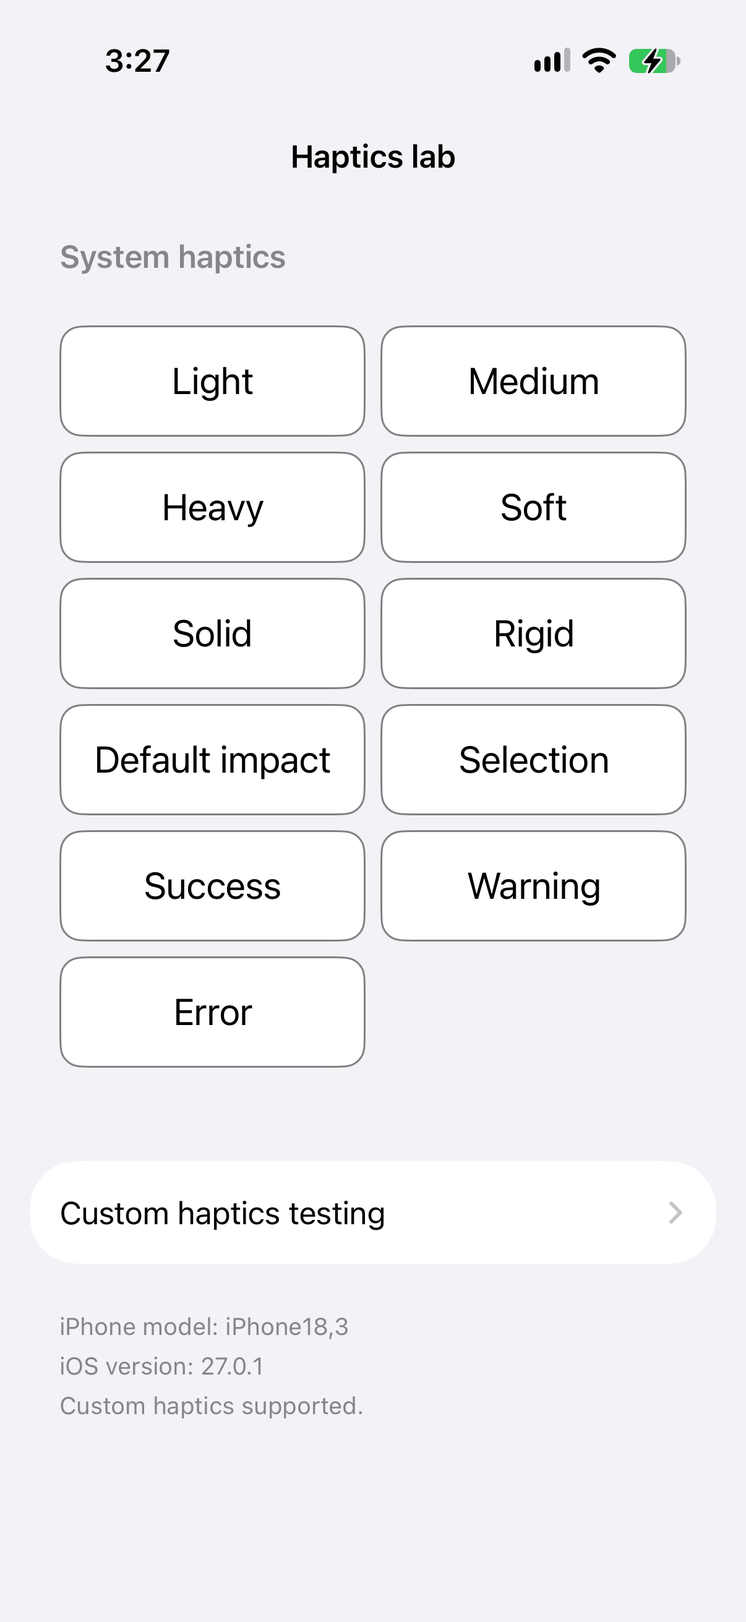
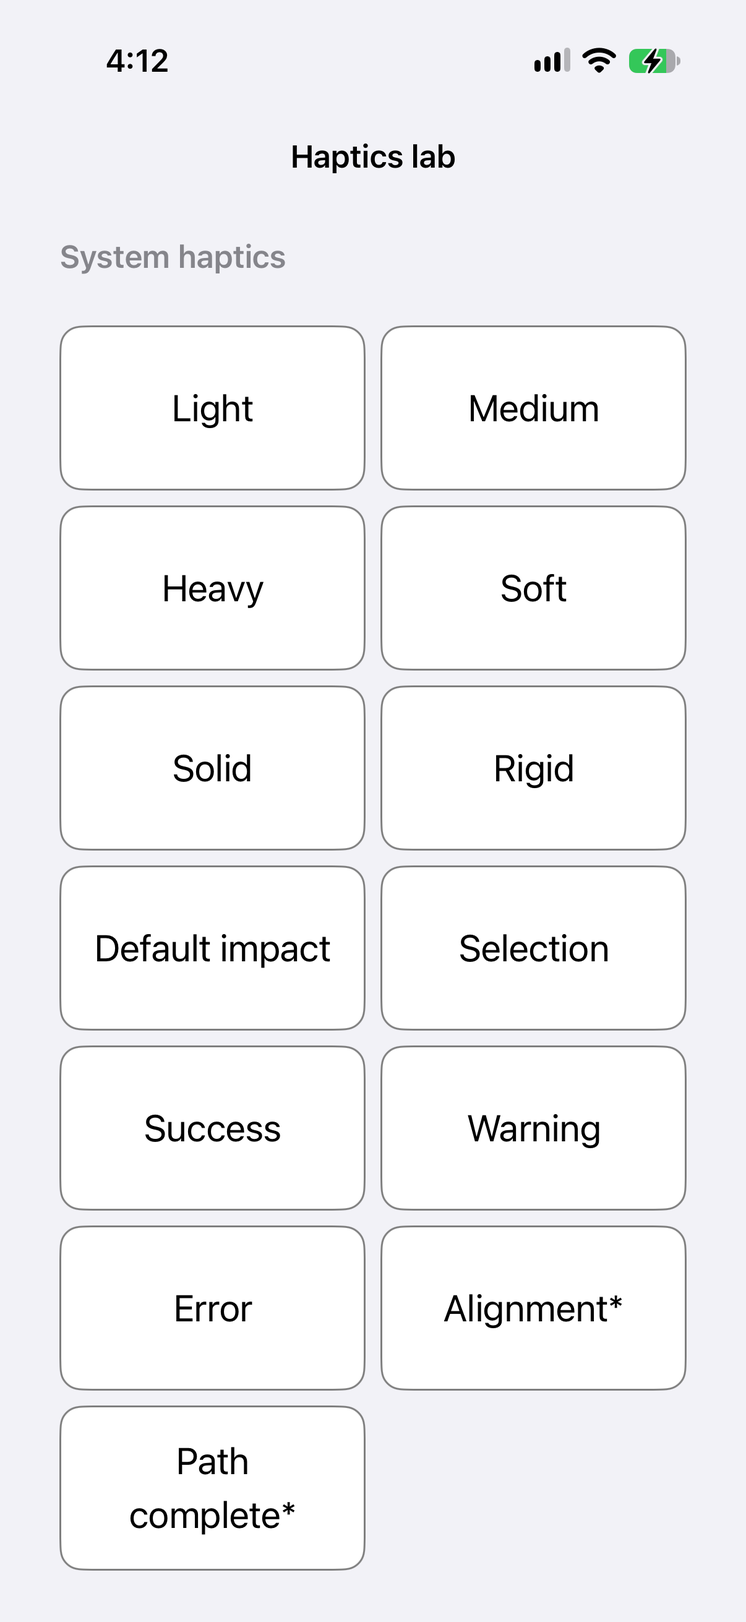
Simplify README guidance and refresh screenshots

diff --git a/README.md b/README.md
@@ -1,8 +1,8 @@
 # Haptics lab
 
-A native SwiftUI app for iOS developers and testers to compare Apple's system haptics, tune custom vibration patterns, and export those patterns as reusable Swift code.
+Explore Apple's system haptics, build your own vibration patterns, and take the Swift code into your app. Haptics lab is a small SwiftUI app for iOS developers and testers who want to try a pattern and understand how it works.
 
-Built with **Swift 6**, **SwiftUI**, and **Core Haptics**, with an **iOS/iPadOS 26.0** deployment target and **no third-party dependencies**. The project targets iPhone and iPad; feeling the patterns requires compatible physical hardware. A simulator cannot reproduce vibration.
+It runs on **iPhone and iPad with iOS/iPadOS 26.0 or later**, uses **Swift 6**, **SwiftUI**, and **Core Haptics**, and has **no third-party dependencies**. You can explore the interface in a simulator, but you'll need compatible physical hardware to feel the feedback.
 
 ## Screenshots
 
@@ -12,12 +12,12 @@ Built with **Swift 6**, **SwiftUI**, and **Core Haptics**, with an **iOS/iPadOS 
     <th>Custom — Pattern controls</th>
   </tr>
   <tr>
-    <td><img src="Docs/Screenshots/home.png" width="300" alt="Haptics lab home screen with eleven System haptics buttons, Custom haptics testing navigation, and device capability information"></td>
+    <td><img src="Docs/Screenshots/home.png" width="300" alt="Haptics lab home screen with thirteen System haptics buttons, including Alignment and Path complete marked with asterisks"></td>
     <td><img src="Docs/Screenshots/custom.png" width="300" alt="Custom screen with Play and Share, intensity and sharpness sliders, Continuous toggle, Repetitions, and the beginning of the Envelope controls"></td>
   </tr>
 </table>
 
-Screenshots supplied by the maintainer, showing light appearance on hardware identifier `iPhone18,3`, iOS 27.0.1. The Home screenshot predates the addition of `Alignment*`/`Path complete*` and the revised device footer. Custom is a scrolling form; more envelope controls and **Reset to defaults** appear below the captured area. Displayed values and available controls can differ by device and event type.
+These latest screenshots were supplied by the maintainer and show light appearance. On Home, scroll down to reach Custom, device information, and the Apple Pencil Pro footnote. On Custom, scroll down for the remaining envelope controls and **Reset to defaults**. Values and available controls can vary by device and event type.
 
 ## Contents
 
@@ -36,37 +36,48 @@ Screenshots supplied by the maintainer, showing light appearance on hardware ide
 
 ## Features
 
-| Feature | Current behavior |
+| What you can do | How it works |
 | --- | --- |
-| System feedback comparison | Thirteen predefined SwiftUI feedback choices on both iPhone and iPad, including two canvas requests marked with an Apple Pencil Pro requirement |
-| Device information | Hardware identifier, OS version, detected custom-haptic support, and the canvas hardware requirement on Home |
-| Transient and continuous events | Brief taps by default; turn on **Continuous** to reveal Duration |
-| Intensity and sharpness | Smooth sliders within ranges reported for the selected event type |
-| Exact numeric entry | Tap a slider's displayed value for a native editor with Save, Cancel, range guidance, and validation errors |
-| Repetition | One to eight events; Gap appears when Repetitions is greater than one |
-| Envelope shaping | Sustained, Attack time, and either Release time or Decay time, depending on the selected mode and device capabilities |
-| Contextual help | Information buttons beside Haptics, Repetition, and Envelope open explanations for testers |
-| Play and Stop | One toolbar button changes from Play to Stop during startup and playback |
-| Swift export | Share the current configuration as a standalone `CustomHaptic.swift` file through the native share sheet, including Save to Files where available |
-| Retained draft and Reset | Parameters survive navigation during the app session; **Reset to defaults** restores app timing defaults and reported transient-event parameter defaults |
-| Native interface | Light/dark appearance, semantic colors, Dynamic Type, native forms and navigation, and equal-height rounded rectangle system buttons |
-| Playback safeguards | Capability and value validation, cancellation, stale-callback protection, and automatic stopping when leaving Custom or when the app becomes inactive |
+| Compare system haptics | Try thirteen native feedback choices, including two canvas effects marked with an Apple Pencil Pro requirement |
+| Check your device | See its hardware identifier, OS version, and whether custom haptics are supported |
+| Try taps or longer vibrations | Leave **Continuous** off for brief taps, or turn it on to set a Duration |
+| Adjust the feel | Move the Intensity and Sharpness sliders smoothly within the device's reported ranges |
+| Enter an exact value | Tap a slider's number to type a value, with range guidance and validation |
+| Repeat a pattern | Choose one to eight repetitions and set the Gap between them |
+| Shape the envelope | Explore Sustained, Attack time, and Release time or Decay time where supported |
+| Learn as you test | Tap the information button beside Haptics, Repetition, or Envelope for help |
+| Play and stop | Use one toolbar button to start playback or stop it, including during startup |
+| Reuse your work | Share the current pattern as a standalone `CustomHaptic.swift` file |
+| Keep experimenting | Return to Custom without losing your draft during the app session, or use **Reset to defaults** |
+| Use familiar controls | Native forms, navigation, light/dark appearance, Dynamic Type, and equal-height rounded rectangle buttons |
+| Leave playback safely | Playback stops when you leave Custom or the app becomes inactive; validation and cancellation protect playback requests |
 
-No accounts, analytics, third-party services, or app-owned network requests are implemented. Sharing is initiated by the user through the system share sheet. Drafts are kept in memory, not saved across app launches.
+There's no account to create, and the app has no analytics or app-owned network requests. Sharing happens only when you choose it. Your draft stays in memory during the app session; it isn't saved between launches.
 
 ## Build and run
 
-1. Clone or fork this repository and open [HapticsLab.xcodeproj](HapticsLab.xcodeproj) in Xcode.
-2. Use an Xcode toolchain that supports the source's Swift 6 features, including `nonisolated` type declarations, and an iOS SDK with the iOS 26 SwiftUI APIs used here. The deployment target is not a claim that every older Xcode version can build the project.
-3. Select the **HapticsLab** scheme and an installed iOS simulator, then choose **Product → Run** to explore the UI.
-4. To feel the haptics, select a supported physical iPhone. Set your own development team under **Signing & Capabilities** and use a bundle identifier you can provision. Keep personal signing settings local.
-5. Choose **Product → Test** to run the unit tests. No package installation, API keys, backend, audio assets, or AHAP files are required.
+You'll need a Mac with Xcode that supports Swift 6 and the iOS 26 SDK or newer. There are no packages, API keys, or backend services to set up.
 
-The simulator can exercise UI, validation, export generation, and pattern construction. It does not establish what any pattern feels like. See [Tests and verification](#tests-and-verification) for recorded results and remaining device checks.
+1. Clone this repository, or choose **Code → Download ZIP** on GitHub and unzip it.
+2. Open [HapticsLab.xcodeproj](HapticsLab.xcodeproj) in Xcode.
+3. In Xcode's toolbar, select the **HapticsLab** scheme and an iPhone or iPad simulator running iOS/iPadOS 26 or later.
+4. Click **Run** (▶), or press **⌘R**.
+
+You can now explore the screens, edit values, and export Swift code. The simulator won't produce vibrations.
+
+### Try it on your device
+
+1. Connect your iPhone or iPad to your Mac and select it as the run destination in Xcode.
+2. Select the **HapticsLab** app target, open **Signing & Capabilities**, and choose your development team. If Xcode asks for a unique bundle identifier, replace it with one you can use.
+3. Follow any trust or Developer Mode prompts, then click **Run**.
+
+Use a supported iPhone to feel custom vibration patterns. For **Alignment\*** and **Path complete\***, you'll need Apple Pencil Pro with a compatible iPad; the feedback is felt in the Pencil. Keep your signing settings local when contributing.
+
+To run the unit tests, choose **Product → Test** or press **⌘U**. See [Tests and verification](#tests-and-verification) for what the tests cover.
 
 ## System haptics
 
-Tap any button on Home to request its native SwiftUI feedback. These choices use Apple's default parameters; the app does not replace them with custom Core Haptics patterns.
+Tap a button on Home to try Apple's native feedback with its default parameters. This gives you a baseline to compare with your custom patterns.
 
 | Button | SwiftUI API |
 | --- | --- |
@@ -78,25 +89,27 @@ Tap any button on Home to request its native SwiftUI feedback. These choices use
 | `Alignment*` | `SensoryFeedback.alignment` |
 | `Path complete*` | `SensoryFeedback.pathComplete` |
 
-All thirteen buttons appear on both iPhone and iPad without device-specific filtering. The asterisk refers to the footer: “\* Requires Apple Pencil Pro with a compatible iPad. Feedback is felt in the Pencil.” These canvas requests do not establish iPhone vibration or detect a connected Pencil; the system decides whether feedback can play. The Core Haptics custom-support check is separate from accessory feedback.
+You'll see all thirteen buttons on both iPhone and iPad. The asterisk points to the footer: “\* Requires Apple Pencil Pro with a compatible iPad. Feedback is felt in the Pencil.” These two buttons don't detect whether a Pencil is connected. The system decides whether it can play the feedback, and you shouldn't expect these effects to vibrate an iPhone.
 
-Each tap creates a request with an incrementing sequence, so repeated taps on the same button still change the `.sensoryFeedback` trigger. A recorded request is not proof that hardware delivered a vibration.
+Each tap creates a new request, even when you tap the same button repeatedly. In code, an incrementing sequence keeps the `.sensoryFeedback` trigger changing. Sending a request doesn't confirm that the hardware produced feedback.
 
-The **Custom haptics testing** row opens the screen titled **Custom**. The Home footer uses **Device model** and **OS version** labels and displays the raw hardware identifier, such as `iPhone18,3`, rather than guessing a marketing model name. It reports custom haptics as supported only when Core Haptics reports support and the app is not running in a simulator.
+Choose **Custom haptics testing** to open **Custom**. The Home footer also shows **Device model**, **OS version**, and custom-haptic support. The model is a hardware identifier such as `iPhone18,3`. “Custom haptics supported” appears only when Core Haptics reports support and the app isn't running in a simulator; it doesn't indicate Pencil support.
 
 ## Custom haptics
 
 ### Haptics
 
-Adjust **Intensity** for strength and **Sharpness** for a softer or crisper feel. Leave **Continuous** off for a transient tap. Turn it on to expose **Duration**, which must be greater than zero and at most **30 seconds per event**. A zero duration while Continuous is on is invalid; switch Continuous off to request a tap.
+Start with **Intensity** to adjust strength and **Sharpness** to move from a softer feel to a crisper one. Leave **Continuous** off for brief taps. Turn it on to reveal **Duration** and choose how long each vibration lasts, up to **30 seconds**.
 
-The selected duration is remembered when Continuous is switched off. Changing event type keeps parameter values that fit the new reported ranges; a value outside a newly reported range resets to that parameter's default for the new event type.
+Continuous events need a duration greater than zero. To return to taps, turn Continuous off; your chosen duration is remembered for next time. When you switch modes, values that fit the new event type's ranges are kept. Values outside those ranges return to the device's reported defaults for that event type.
 
 ### Repetition
 
-**Repetitions** is an integer stepper from **1 to 8**, starting at **1**. Increasing it reveals **Gap**, a smooth control from **0 to 2 seconds**, initially **0.12 seconds**. All events in a pattern use the same type and parameters.
+Use **Repetitions** to play the same event **1 to 8 times**. When you choose more than one, **Gap** appears so you can set the spacing from **0 to 2 seconds**. The starting values are one repetition and a stored gap of **0.12 seconds**.
 
-For event index `i`, repetition count `n`, effective duration `d`, and gap `g`:
+Every repetition uses the same event type and parameters. There is no gap after the last event. For example, three vibrations lasting `0.4 s` with `0.15 s` gaps start at `0`, `0.55`, and `1.10 s`, with a scheduled end of `1.50 s`. An envelope can extend the physical response into a gap, so the gap doesn't always mean silence.
+
+If you're inspecting or reusing the timing code, `i` is the event index, `n` is the repetition count, `d` is the event duration, and `g` is the gap:
 
 ```text
 Transient: d = 0
@@ -106,69 +119,76 @@ Event start = i × (d + g), for i = 0 ..< n
 Scheduled pattern end = (n − 1) × (d + g) + d
 ```
 
-There is no trailing gap. Three continuous events of `0.4 s` with `0.15 s` gaps start at `0`, `0.55`, and `1.10 s`; the scheduled end is `1.50 s`. Envelope tails can extend the physical response into a gap, so scheduled spacing does not guarantee silence.
-
 ### Envelope
 
-| Control | Core Haptics parameter | Behavior |
-| --- | --- | --- |
-| Intensity | `.hapticIntensity` | Event strength |
-| Sharpness | `.hapticSharpness` | Event character |
-| Sustained | `.sustained` | Selects the envelope mode; editable only when the reported range permits both off and on |
-| Attack time | `.attackTime` | Shapes the rise toward the selected intensity |
-| Release time | `.releaseTime` | Shown and encoded with Sustained on |
-| Decay time | `.decayTime` | Shown and encoded with Sustained off |
+These controls let you explore how a vibration starts and fades. Try changing one value at a time and replaying the pattern to feel the difference.
 
-**Envelope time values are relative/normalized parameters, not seconds.** Duration and Gap are the controls measured in seconds. Change one parameter at a time and replay to compare its effect on the installed device. Repetitions and Gap are app-defined composition controls, not Core Haptics event-parameter names.
+| Control | Core Haptics parameter | What it does |
+| --- | --- | --- |
+| Intensity | `.hapticIntensity` | Sets the event's strength |
+| Sharpness | `.hapticSharpness` | Changes the event's feel |
+| Sustained | `.sustained` | Selects the envelope mode; you can toggle it only when the device's range supports both values |
+| Attack time | `.attackTime` | Shapes the rise toward the selected intensity |
+| Release time | `.releaseTime` | Appears and is included in the pattern when Sustained is on |
+| Decay time | `.decayTime` | Appears and is included in the pattern when Sustained is off |
+
+**Attack time, Decay time, and Release time use relative/normalized values, not seconds.** Duration and Gap are measured in seconds. Repetitions and Gap are labels for this app's pattern controls, rather than Core Haptics event-parameter names.
 
 ### Exact entry, help, and defaults
 
-Sliders have no step increment. Their value labels show up to eight significant digits; tapping an editable value opens a numeric sheet using the stored `Double`, preserving precision when opening and saving without edits. Core Haptics event parameters are ultimately encoded as `Float` values.
+The sliders move smoothly without fixed steps. For a precise value, tap the number beside a slider, type your value, and choose **Save**. **Cancel** or dismissing the sheet leaves your draft unchanged. If a device reports a fixed value, you'll see it without an editable control.
 
-The editor accepts locale decimal separators and decimal digits, plus pasted decimal/scientific notation. It rejects blank or malformed input, units and grouping syntax, nonfinite/overflowing values, underflow to zero, and values outside the allowed range. Duration must also be positive. Invalid input stays in the editor with an explanation; Save does not silently clamp it. Cancel or dismissal leaves the draft unchanged. A fixed device value is displayed without an editable slider or value button.
+You can use your locale's decimal separator and digits, or paste decimal and scientific notation. The editor explains invalid entries instead of silently changing them to fit the range. It rejects empty or malformed input, units, digit grouping, values outside the range, nonfinite numbers, overflow, and nonzero values so small they round to zero. Duration must also be positive.
 
-Use the information icon beside each section name for its explanation. **Reset to defaults** restores one transient event, a stored continuous duration of `0.2 s`, and a gap of `0.12 s`, then applies the device's reported transient defaults for available parameters. Intensity, sharpness, and envelope defaults therefore should not be assumed identical across devices.
+For developers: labels show up to eight significant digits, but the editor opens with the stored `Double`. Opening and saving without edits preserves that value. Core Haptics event parameters are converted to `Float` when the pattern is built.
+
+Tap a section's information icon for help with its controls. To start again, choose **Reset to defaults**. This restores one tap, a stored continuous duration of `0.2 s`, a gap of `0.12 s`, and the device's reported transient defaults for available parameters. Intensity, sharpness, and envelope defaults can therefore differ between devices.
 
 ### Playback
 
-Tap the toolbar **Play** icon to capture and play the current configuration. It becomes **Stop** while starting or playing; tap it again to cancel or stop. Edits made during playback affect the next request, not the captured pattern already playing.
+Tap **Play** in the toolbar to try your current pattern. The same button becomes **Stop** during startup and playback. Any edits you make while it's playing apply to the next request.
 
-Leaving Custom or moving the app out of its active state stops playback. The draft remains available when returning during the same app session. Playback errors appear in an alert. Invalid configurations prevent playback on supported hardware; on unsupported hardware, Play explains that physical haptic support is required.
+Playback stops when you leave Custom or the app becomes inactive. Your draft is still there when you return during the same app session. Errors appear in an alert. An invalid configuration prevents playback on supported hardware; on unsupported hardware, Play explains that physical haptic support is needed.
 
 ## Export Swift code
 
-1. Configure the pattern in Custom.
-2. Tap **Share**, to the right of Play/Stop.
-3. Share `CustomHaptic.swift` with another app, or choose **Save to Files** if offered by the system share sheet.
-4. Add the file to an iOS app target and present the generated view:
+When you've found a pattern you want to reuse:
+
+1. Tap **Share**, to the right of Play/Stop in Custom.
+2. Send `CustomHaptic.swift` to another app, or choose **Save to Files** if it's available in the share sheet.
+3. Add the file to your iOS app target and present the generated view:
 
 ```swift
 ExportedHapticView()
 ```
 
-The file is UTF-8 Swift source containing `ExportedHapticView` and `ExportedHapticPlayer`, using SwiftUI, Core Haptics, and Observation. It is a standalone example targeting Swift 6 and iOS 26.0+, not a dependency on the HapticsLab module. Rename the generated types if importing multiple exports into the same target.
+The file contains `ExportedHapticView` and `ExportedHapticPlayer`, using SwiftUI, Core Haptics, and Observation. It's standalone UTF-8 Swift source for Swift 6 and iOS 26.0 or later, so you don't need to add HapticsLab to your app. If you import several exports, rename the generated types to avoid name conflicts.
 
-Export uses the same validation, event timing, active parameters, and `Float` conversion as playback. It captures the **current draft**, including repetition and gap, and includes only parameters available on the exporting device. It is not a live link to subsequent edits or a recording of physical vibration.
+Each export captures your **current draft**, including repetition, gap, and the parameters available on the exporting device. It uses the same validation, timing, and `Float` conversion as playback. Later edits won't change an already shared file.
 
-The generated player validates support and parameter ranges on the destination device, exposes Play/Stop, handles errors and interruptions, and stops when its view disappears or its scene becomes inactive. The same configuration may feel different on another device. Export is disabled for an invalid configuration; file preparation and sharing errors are reported. Each share has a separate temporary file, retained through the share sheet and cleaned up on dismissal.
+The generated player checks the destination device's support and parameter ranges, provides Play/Stop, handles errors and interruptions, and stops when its view disappears or the app becomes inactive. Try the result on your destination device: the same values may feel different on different hardware.
+
+Share is disabled while the configuration is invalid. If file preparation or sharing fails, the app shows an error. Each share uses its own temporary file, which stays available through sharing and is cleaned up when the sheet is dismissed.
 
 ## Device capabilities and limits
 
-At controller initialization, `CHHapticEngine.capabilitiesForHardware()` supplies support information. The app queries `attributes(forEventParameter:eventType:)` separately for transient and continuous events for all six parameters in the table above. Valid minimum, maximum, and default values become immutable capability snapshots.
+The app asks Core Haptics what the device supports instead of choosing ranges from its model name. It uses `CHHapticEngine.capabilitiesForHardware()` and queries `attributes(forEventParameter:eventType:)` for all six parameters, separately for transient and continuous events. Valid minimum, maximum, and default values are stored as immutable capability snapshots.
 
-- Available parameters use reported ranges, rather than a hardcoded range selected by iPhone model.
-- Missing required intensity or sharpness attributes prevent validation. Missing optional envelope parameters are shown as unavailable and omitted from generated events.
-- Invalid capability attributes and invalid/nonfinite user values are rejected rather than silently clamped.
-- The 30-second continuous-event limit is the implementation's Core Haptics duration bound; there is no per-device duration-attribute query in this code.
-- One to eight repetitions and a zero-to-two-second gap are **app limits**, not claims about the maximum composition Core Haptics supports. Together they permit up to **254 seconds of scheduled continuous events**. There is no ten-second total-pattern cap in the current implementation.
+A few details are useful when testing:
 
-Support detection is not a vibration self-test. Perceptibility also depends on the pattern, hardware, app state, and system behavior. Zero intensity is accepted and can intentionally be silent.
+- If the device doesn't report required Intensity or Sharpness attributes, the pattern can't pass validation.
+- Optional envelope parameters that aren't available are shown as unavailable and left out of generated events.
+- Invalid capability data and invalid or nonfinite input are rejected. Values aren't silently clamped.
+- Continuous events are limited to **30 seconds each**. The app doesn't query a device-specific duration limit.
+- **1–8 repetitions** and a **0–2-second gap** are app limits. Together, they allow up to **254 seconds of scheduled continuous events**. There is no ten-second total-pattern cap.
+
+A support check can't tell you what a pattern will feel like. The result also depends on the hardware, app state, and system behavior. An intensity of zero is valid and can be intentionally silent.
 
 ## Architecture and source map
 
-The app uses native Apple frameworks only: SwiftUI, Core Haptics, Observation, Foundation, UIKit for device information and sharing, and Darwin for the hardware identifier.
+If you'd like to change the app or reuse part of it, start here. It uses native Apple frameworks only: SwiftUI, Core Haptics, Observation, Foundation, UIKit for device information and sharing, and Darwin for the hardware identifier.
 
-| Source | Responsibility |
+| Source | What you'll find |
 | --- | --- |
 | [HapticsLabApp.swift](HapticsLab/HapticsLabApp.swift) | App entry point |
 | [ContentView.swift](HapticsLab/ContentView.swift) | Home, equal-height two-column grid, device footer, navigation, and scene lifecycle |
@@ -183,68 +203,76 @@ The app uses native Apple frameworks only: SwiftUI, Core Haptics, Observation, F
 | [Assets.xcassets](HapticsLab/Assets.xcassets) | Waveform app icon and native asset catalog |
 | [HapticsLabTests](HapticsLabTests) | Unit tests for configuration, capabilities, lifecycle, numeric input, drafts, and export |
 
-`ContentView` owns the `@MainActor @Observable` controller in `@State`. Custom binds to the controller's in-memory draft. Playback captures a value snapshot, while native engines, players, and observable state stay on MainActor. Asynchronous startup is cancellable; generation tokens and engine identities reject callbacks from obsolete playback. Backgrounding, navigation away, and engine interruptions stop custom playback without automatically restarting it. The engine is haptics-only and enables automatic shutdown.
+`ContentView` owns the `@MainActor @Observable` controller in `@State`, and Custom binds to the controller's in-memory draft. Playback takes an immutable snapshot of that draft. Native engines, players, and observable state stay on MainActor.
 
-To extend the app, update configuration validation, capability mappings, UI controls, export generation, and related unit coverage together. To reuse a configured pattern, start with the exported file; to reuse the editor or controller, follow the source map and preserve lifecycle and concurrency safeguards.
+Startup can be cancelled. Generation tokens and engine identities prevent old asynchronous callbacks from affecting newer playback. Leaving Custom, making the app inactive, or interrupting the engine stops playback without an automatic restart. The engine plays haptics only and uses automatic shutdown.
+
+When adding a parameter, keep validation, capability mappings, controls, export, and related tests in sync. If you just want to reuse a pattern, the exported Swift file is the quickest starting point.
 
 ## Tests and verification
 
-The current **HapticsLabTests** target contains **27 unit tests**:
+The **HapticsLabTests** target has **27 unit tests**:
 
-| File | Coverage |
+| File | What it covers |
 | --- | --- |
 | [HapticsLabTests.swift](HapticsLabTests/HapticsLabTests.swift) | Timing, mode switches, full event duration, smooth values, device ranges, unavailable parameters, envelope encoding, snapshots, distinct native requests, and repeatable Stop |
 | [HapticNumberInputTests.swift](HapticsLabTests/HapticNumberInputTests.swift) | Numeric validation, boundaries, locale input, precision, retained drafts, and Reset |
 | [HapticSwiftExportTests.swift](HapticsLabTests/HapticSwiftExportTests.swift) | Exported parameters/timing, unavailable parameters, invalid drafts, attachment snapshots, independent files, cleanup, and preparation failures |
 
-Verification is intentionally run locally by contributors and the maintainer; **GitHub Actions is not required and no CI workflow is configured**. Run affected unit tests in Xcode (or the full suite with **Product → Test** when appropriate), then finish app changes with **Product → Build**. UI tests are intentionally excluded. Test names and count describe existing coverage, not proof that a new checkout has passed. See [manual verification](CONTRIBUTING.md#manual-verification--no-github-actions-required) for the workflow and what to report.
+Run affected unit tests in Xcode, or choose **Product → Test** for the full suite. Finish app changes with **Product → Build**. We run verification locally: **GitHub Actions isn't required, and no CI workflow is configured.** UI tests are intentionally excluded. The [contribution guide](CONTRIBUTING.md#manual-verification--no-github-actions-required) explains the manual checks and what to include in a PR.
 
-[VERIFICATION.md](VERIFICATION.md) records dated runs, including 27 passing unit tests on the iPhone 13 mini simulator with iOS 26.5, subsequent targeted checks, and normal builds. These are historical results. Documentation-only edits need content, link, and diff checks, not a new test run.
+For documentation-only changes, check the content, links, images, and diff; there's no need to build or run app tests.
 
-Physical vibration, perceptual envelope behavior, hardware interruptions, execution on the minimum iOS 26.0 runtime, iPad layout, and end-to-end sharing into other apps remain unverified in the recorded checks. The supplied screenshots illustrate the interface; they do not establish these behaviors. Validate physical playback separately when shipping code derived from this sample.
+[VERIFICATION.md](VERIFICATION.md) records what was tested and when, including a 27-test pass on the iPhone 13 mini simulator with iOS 26.5 and later targeted checks. Those results describe those runs, so please run the relevant checks for your own changes.
+
+Physical vibration, envelope feel, hardware interruptions, the minimum iOS 26.0 runtime, iPad layout, and sharing into other apps still need verification in the recorded checks. Screenshots show the interface, but don't verify those behaviors. Test physical playback before shipping code based on this sample.
 
 ## Guidance for AI agents
 
-Read [AGENTS.md](AGENTS.md), this README, and [VERIFICATION.md](VERIFICATION.md) before implementation. Use this README as a map of the current code and the verification log as dated evidence, not as a list of checks already performed for your task.
+Start with [AGENTS.md](AGENTS.md), this README, and [VERIFICATION.md](VERIFICATION.md). The README describes the current app; the verification log records past checks.
 
-1. Inspect repository state and preserve unrelated changes. Use **Xcode MCP** for source/resource inspection and edits, project changes, Apple documentation, builds, tests, and simulator verification. Shell/file tools may handle repository documentation and Git. Report unavailable required MCP operations instead of silently substituting shell-based Xcode commands.
-2. Preserve iOS 26.0, Swift 6, native frameworks, MainActor ownership, Sendable request snapshots, strict validation, cancellation, generation checks, and engine-identity checks. Keep the UI native with semantic colors and native padding.
-3. Review SwiftUI edits using available guidance, identifying whether it is a locally exposed skill or an external exported copy. Do not claim an unavailable skill was invoked.
-4. Run affected unit tests and finish app changes with a normal build through Xcode MCP. Do not reintroduce UI tests or add GitHub Actions/required CI checks unless the maintainer explicitly requests a workflow change. Report the actual simulator/runtime, skipped checks, and hardware limitations. Source edits, simulator tests, and physical vibration checks are different evidence.
-5. Keep personal signing values, credentials, Xcode user state, and build output out of commits. Inspect the full staged diff, including signing configuration, before committing. Never install on physical hardware or change repository visibility without an explicit request.
-6. Keep feature documentation aligned with the code when behavior changes. Do not add capabilities merely because an Apple API exists; availability alone does not establish an iPhone vibration effect.
+- Follow the tool workflow in AGENTS.md. It currently requires **Xcode MCP** for app source/resource work, project changes, Apple documentation, builds, tests, and simulator verification. Use shell/file tools for repository documentation and Git. Report an unavailable required operation instead of silently substituting shell-based Xcode commands.
+- Preserve Swift 6, the iOS/iPadOS 26.0 deployment target, native frameworks, MainActor ownership, Sendable snapshots, validation, cancellation, and stale-callback checks.
+- Review SwiftUI changes with available guidance and say whether it came from a locally exposed skill or an external copy. Don't claim to have used a skill that wasn't available.
+- Run affected unit tests, then a normal build through Xcode MCP. Report the actual destination/runtime, results, and skipped checks. Don't add UI tests, GitHub Actions, or required CI checks unless the maintainer requests that change.
+- Preserve unrelated work and local signing settings. Inspect the complete staged diff before committing. Physical-device installation and repository visibility changes need an explicit request.
+- Keep documentation aligned with the code. An available API or a successful simulator test doesn't establish physical feedback.
 
-**Historical research:** The dated [capability study](Docs/HAPTICS_STUDY.md) predates later UI, export, and test changes and is awaiting a separate maintenance pass. Use the current source and this README for implemented behavior.
+The [capability study](Docs/HAPTICS_STUDY.md) is older research and awaits a separate update. For implemented behavior, use the current source and this README.
 
 ## Contributing
 
-Read [CONTRIBUTING.md](CONTRIBUTING.md) for project constraints. Fork the repository, make a focused change on a branch, and open a pull request describing the problem, resulting behavior, and verification performed. For haptic reports, include the hardware identifier, iOS version, selected values, and whether testing used a physical device or simulator.
+Bug reports, feature ideas, and focused pull requests are welcome. Start with [CONTRIBUTING.md](CONTRIBUTING.md), then use the [issue template](.github/ISSUE_TEMPLATE/community_issue.md) or [PR template](.github/pull_request_template.md) to share the details.
 
-Human contributors use Xcode directly; Xcode MCP is required only for coding agents. The maintainer reviews and locally verifies contributions before merging into `main`. Owner-only merging is a separate access policy and does not depend on GitHub Actions; GitHub enforcement must be configured separately.
+For a haptic report, tell us which device and OS you used, which values you tried, whether it was a simulator or physical device, and what you observed. For code changes, fork the repository, work on a branch, and open a PR against `main` with your verification results.
 
-Keep contributions native and dependency-free. Separate reproducible software behavior from subjective tactile observations, and do not include personal signing settings. Contributions use the repository's [MIT license](LICENSE).
+You can contribute using Xcode directly; no AI assistant or MCP setup is needed to submit a PR. Agents should follow the separate instructions above. The maintainer reviews and locally verifies changes before merging. Only the owner may authorize updates to `main`; this is a contribution policy, and GitHub permissions must be configured separately to enforce it.
+
+Keep changes native and dependency-free, and leave personal signing settings out of commits. Contributions use the [MIT license](LICENSE).
 
 ## Troubleshooting
 
-| Symptom | What to check |
+| What you're seeing | What to try |
 | --- | --- |
-| No vibration in the simulator | Expected; use supported physical hardware to feel patterns |
-| `Alignment*` or `Path complete*` produces no iPhone vibration | These canvas requests are provided for Apple Pencil Pro on compatible iPads; see the asterisk explanation on Home |
-| Home says custom haptics are unavailable | The device is a simulator or the Core Haptics support check returned false |
-| Play is unavailable on supported hardware | Check parameter ranges and ensure Continuous duration is greater than zero |
-| Numeric Save does not dismiss the editor | Read the inline error; use a finite value in range without units or grouping syntax |
-| An envelope control is unavailable or fixed | The reported capability for that event type is absent or does not allow editing |
+| No vibration in the simulator | Use supported physical hardware to feel the pattern |
+| `Alignment*` or `Path complete*` doesn't vibrate your iPhone | Try Apple Pencil Pro on a compatible iPad; these canvas effects are felt in the Pencil |
+| Home says custom haptics are unavailable | Check whether you're using a simulator or a device without Core Haptics support |
+| Play is unavailable on supported hardware | Check the parameter ranges and use a positive Duration when Continuous is on |
+| Save won't close the numeric editor | Read the inline error and enter a finite number in range, without units or digit grouping |
+| An envelope control is unavailable or fixed | The device hasn't reported an editable range for that parameter and event type |
 | A custom pattern is silent | Check intensity, hardware support, foreground state, and system settings |
-| Playback stops after leaving Custom or backgrounding | Expected lifecycle cleanup; return and press Play again |
-| Share is unavailable or fails | Validate the current draft; check the sharing error and destination app's support for `.swift` files |
-| Exported code reports unsupported values | The destination device's capabilities differ; retune the pattern on that device |
-| Physical-device build fails to sign | Configure your own team and provisionable bundle identifier locally |
+| Playback stops when you leave Custom or background the app | This is expected; return to Custom and press Play again |
+| Share is unavailable or fails | Check your values, the error message, and whether the destination app accepts `.swift` files |
+| Exported code reports unsupported values | Adjust the pattern for the destination device's capabilities |
+| Xcode can't sign a device build | Choose your development team and a bundle identifier you can provision |
 
 ## Scope and references
 
-Haptics lab provides **built-in iPhone vibration testing** and native Alignment/Path complete requests for **Apple Pencil Pro on compatible iPads**. The canvas buttons are visible on both device families and include a hardware-requirement footnote; physical Pencil feedback remains unverified. Audio, custom accessory/controller haptic patterns, mixed-event timeline editing, dynamic parameter curves, pause/resume/seek, indefinite looping, playback-rate controls, AHAP import/export, and saved preset libraries are not implemented. Swift source export and finite repetition are implemented as described above.
+The app covers built-in iPhone vibration testing and native Alignment/Path complete requests for Apple Pencil Pro on compatible iPads. Both canvas buttons appear on iPhone and iPad with a hardware footnote; physical Pencil feedback still needs verification.
 
-Relevant Apple documentation:
+It doesn't currently include audio, custom accessory/controller patterns, mixed-event timelines, dynamic parameter curves, pause/resume/seek, indefinite looping, playback-rate controls, AHAP import/export, or saved preset libraries. You can use finite repetition and Swift source export as described above.
+
+For the underlying APIs, see Apple's documentation:
 
 - [SwiftUI SensoryFeedback](https://developer.apple.com/documentation/swiftui/sensoryfeedback)
 - [Apple Pencil canvas feedback](https://developer.apple.com/documentation/ApplePencil/playing-haptic-feedback-in-your-app#Play-feedback-for-canvas-events)

diff --git a/VERIFICATION.md b/VERIFICATION.md
@@ -1,5 +1,17 @@
 # Verification
 
+## README copy and setup instructions — 11 October 2026
+
+Rewrote the README in a conversational tone, with a four-step simulator setup and separate physical-device instructions. Kept the feature list, API mappings, parameter behavior and limits, export details, source map, agent workflow, and verification limitations. Added links to the community templates and preserved the latest supplied screenshots. No app behavior, repository permissions, or release tags changed.
+
+Reviewed the copy against the documented implementation and contribution workflow; all README local links, anchors, and image references resolve, and Git whitespace checks passed. No app builds, tests, or device setup checks were run for this documentation-only change.
+
+## Refreshed README screenshots — 11 October 2026
+
+Replaced the Home and Custom documentation images with the maintainer-supplied `IMG_3236.PNG` and `IMG_3237.PNG`, respectively. Both are 1206 × 2622 PNGs copied without image modification. Visually reviewed the supplied images: Home shows all thirteen system choices, including the two asterisk-marked canvas buttons; the navigation row and footer are outside the capture. Custom shows the top of its scrolling form. Updated README alt text and caption, removing the obsolete screenshot warning and avoiding unverified device/OS attribution for these new captures.
+
+Verified byte-for-byte copies, PNG dimensions, README local links/image references/anchors, and Git whitespace. This was a documentation-only update; no app tests, builds, hardware checks, or release-tag changes were performed.
+
 ## Shared canvas feedback buttons — 11 October 2026
 
 Added `Alignment*` and `Path complete*` to the shared System haptics catalog using SwiftUI `.alignment` and `.pathComplete`. Both appear on iPhone and iPad without device-specific filtering. The Home footer explains: “* Requires Apple Pencil Pro with a compatible iPad. Feedback is felt in the Pencil.” Device labels now read `Device model` and `OS version`; the existing custom Core Haptics support check remains separate from Pencil feedback. Native button sizing, semantic colors, and padding are preserved. README and agent scope guidance were updated; the supplied Home screenshot is explicitly identified as predating these additions.
